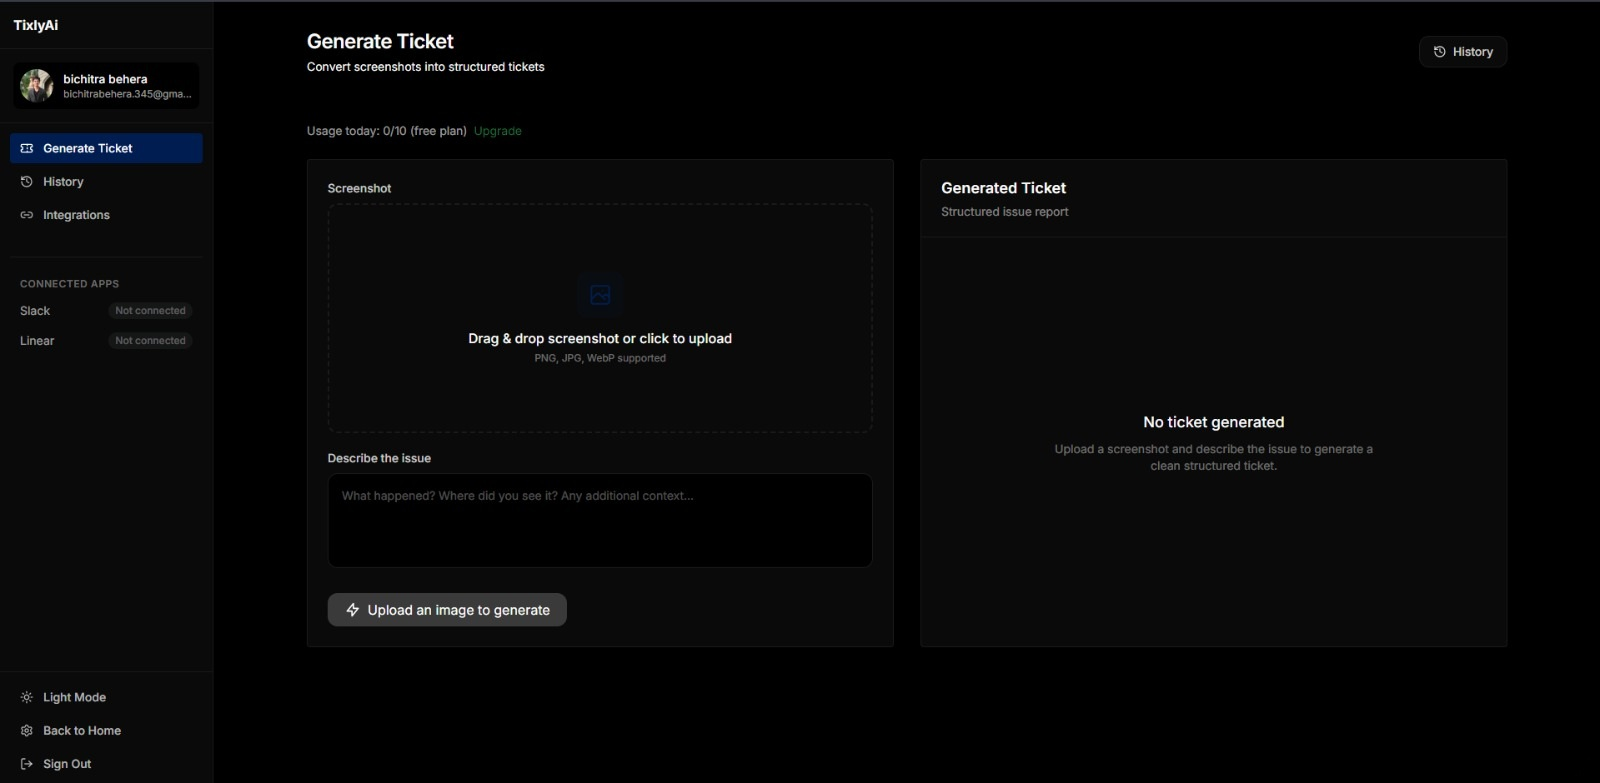
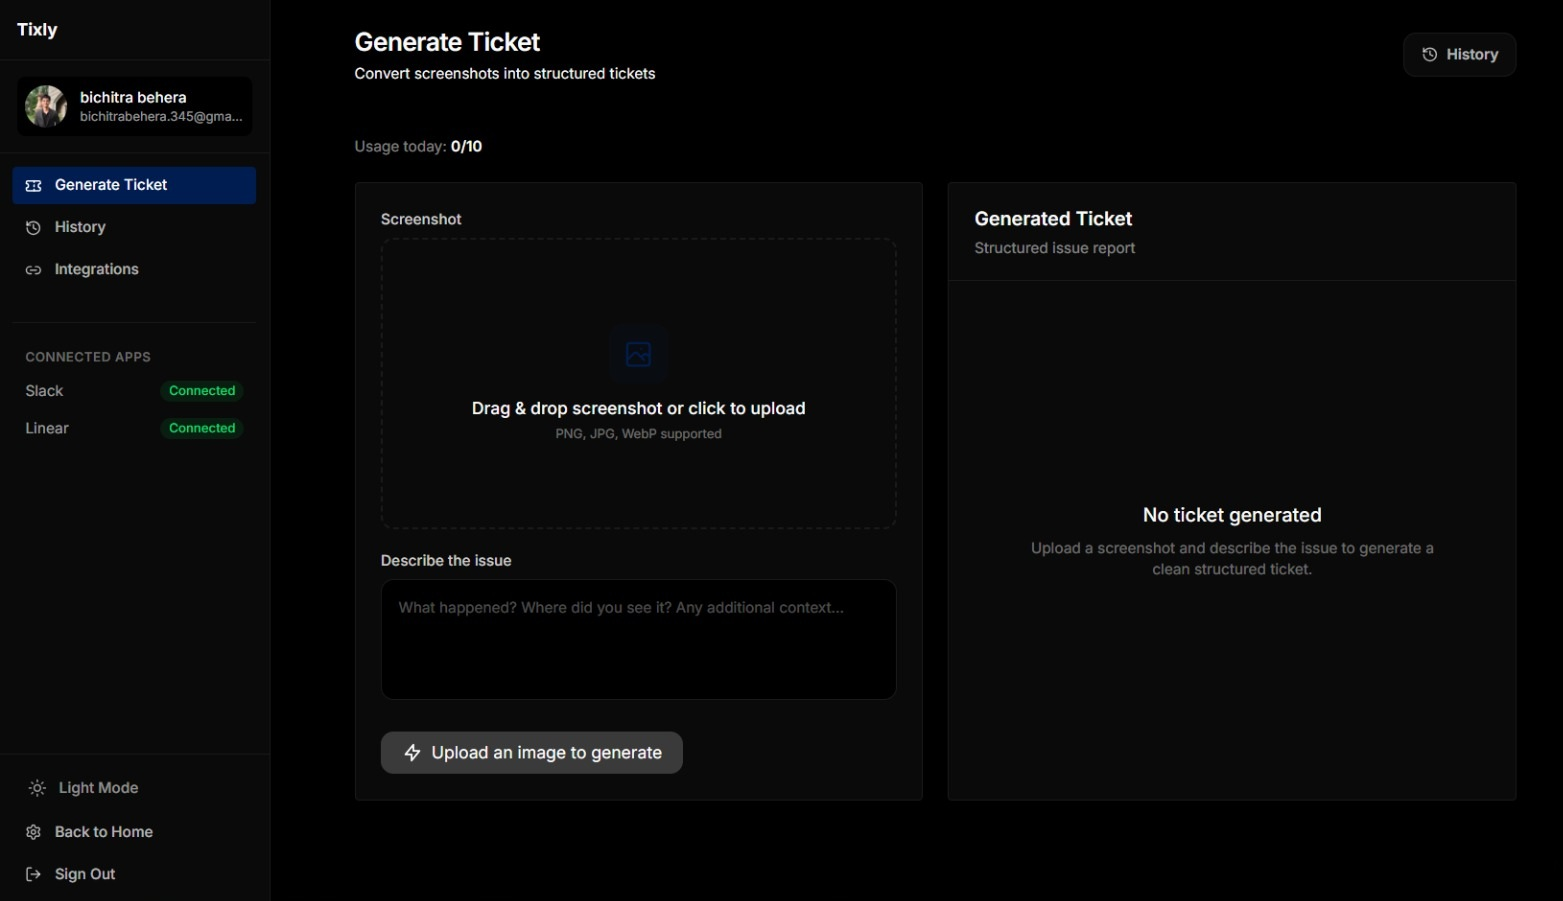
final touches before next linkedin and x post

diff --git a/components/Footer.tsx b/components/Footer.tsx
@@ -3,8 +3,7 @@ import { SOCIALS, FOOTER, SITE } from "@/lib/data";
 import type { ComponentType } from "react";
 
 export function Footer() {
-  // Map of platform names to developer-icons components
-  const iconMap: Record<string, ComponentType<{ className?: string }>> = {
+  const iconMap = {
     github: GitHubDark,
     linkedin: LinkedIn,
     x: XDark,
@@ -12,58 +11,90 @@ export function Footer() {
 
   return (
     <footer className="border-t border-slate-200">
-      <div className="mx-auto max-w-6xl px-6 py-12 lg:px-8">
-        <div className="flex flex-col items-center gap-8">
-          {/* Brand */}
-          <div className="text-center">
-            <div className="mb-2 font-bold text-xl tracking-tight text-slate-900">
+      <div className="mx-auto max-w-6xl px-4 sm:px-6 py-12 lg:py-16">
+        {/* TOP GRID */}
+        <div className="grid gap-10 sm:grid-cols-2 lg:grid-cols-4">
+          {/* BRAND */}
+          <div>
+            <h3 className="text-lg font-semibold text-slate-900">
               {SITE.name}
-            </div>
-            <p className="text-sm text-slate-600">{SITE.tagline}</p>
+            </h3>
+            <p className="mt-3 text-sm text-slate-600 max-w-xs">
+              {SITE.tagline}
+            </p>
           </div>
 
-          <nav className="flex flex-wrap items-center justify-center gap-x-8 gap-y-3 text-sm">
-            {FOOTER.links.map((link) => (
-              <a
-                href={link.href}
-                key={link.label}
-                className="text-slate-600 hover:text-slate-900 transition-colors font-medium"
-              >
-                {link.label}
-              </a>
-            ))}
-          </nav>
-
-          <div className="flex items-center gap-6">
-            {SOCIALS.map((social, index) => {
-              const IconComponent = iconMap[social.platform.toLowerCase()];
-              return (
+          {/* LINKS */}
+          <div>
+            <h4 className="text-sm font-semibold text-slate-900 mb-3">
+              Product
+            </h4>
+            <div className="flex flex-col gap-2 text-sm">
+              {FOOTER.links.map((link) => (
                 <a
-                  key={index}
-                  href={social.url}
-                  target="_blank"
-                  rel="noopener noreferrer"
-                  className="group transition-all"
-                  aria-label={social.platform}
+                  key={link.label}
+                  href={link.href}
+                  className="text-slate-600 hover:text-slate-900 transition-colors"
                 >
-                  <div className="flex h-10 w-10 items-center justify-center rounded-xl border border-slate-200 text-slate-600 transition-all group-hover:bg-white shadow-2xs">
-                    {IconComponent ? (
-                      <IconComponent className="h-5 w-5" />
-                    ) : null}
-                  </div>
+                  {link.label}
                 </a>
-              );
-            })}
+              ))}
+            </div>
           </div>
 
-          <p className="text-sm text-slate-500 text-center">
-            Built with <span className="text-red-500 inline-block">❤</span> by{" "}
-            <span className="font-semibold text-slate-700">
-              {FOOTER.builtBy}
-            </span>
+          {/* SOCIAL */}
+          <div>
+            <h4 className="text-sm font-semibold text-slate-900 mb-3">
+              Connect
+            </h4>
+
+            <div className="flex gap-3">
+              {SOCIALS.map((social, index) => {
+                const Icon = iconMap[social.platform.toLowerCase()];
+                return (
+                  <a
+                    key={index}
+                    href={social.url}
+                    target="_blank"
+                    rel="noopener noreferrer"
+                    className="group"
+                  >
+                    <div
+                      className="flex h-9 w-9 items-center justify-center rounded-lg border border-slate-200 bg-white text-slate-600 transition-all 
+                      hover:-translate-y-0.5 hover:shadow-md hover:text-slate-900"
+                    >
+                      {Icon && <Icon className="h-4 w-4" />}
+                    </div>
+                  </a>
+                );
+              })}
+            </div>
+          </div>
+
+          {/* EXTRA / TRUST */}
+          <div>
+            <h4 className="text-sm font-semibold text-slate-900 mb-3">
+              Built for
+            </h4>
+            <p className="text-sm text-slate-600">
+              Developers, startups, and teams who hate slow workflows.
+            </p>
+          </div>
+        </div>
+
+        {/* DIVIDER */}
+        <div className="my-10 h-px bg-slate-200" />
+
+        {/* BOTTOM */}
+        <div className="flex flex-col sm:flex-row items-center justify-between gap-4 text-sm">
+          <p className="text-slate-500 text-center sm:text-left">
+            © {new Date().getFullYear()} {SITE.name}. All rights reserved.
           </p>
 
-          <div className="text-xs text-slate-400">{FOOTER.copyright}</div>
+          <p className="text-slate-500 text-center">
+            Built with <span className="text-red-500">♥</span> by{" "}
+            <span className="font-medium text-slate-700">{FOOTER.builtBy}</span>
+          </p>
         </div>
       </div>
     </footer>

diff --git a/components/HowItWorks.tsx b/components/HowItWorks.tsx
@@ -35,23 +35,13 @@ export function HowItWorks() {
         </div>
 
         {/* Preview */}
-        <div className="mb-16 overflow-hidden rounded-2xl border border-slate-200 bg-neutral-950 shadow-sm">
-          <div className="flex items-center border-b border-neutral-800 px-4 py-3">
-            <div className="flex gap-1.5">
-              <span className="h-2.5 w-2.5 rounded-full bg-red-400" />
-              <span className="h-2.5 w-2.5 rounded-full bg-yellow-400" />
-              <span className="h-2.5 w-2.5 rounded-full bg-green-400" />
-            </div>
-
-            <div className="ml-4 flex-1 rounded-md bg-neutral-800 px-3 py-1.5 text-xs text-neutral-400">
-            /dashboard/generate
-            </div>
-          </div>
+        <div className="mb-16 overflow-hidden rounded-xl shadow-green-950 border border-slate-200 shadow-sm">
+          
 
           <img
             src="/Banner.jpeg"
             alt="Tixly dashboard preview"
-            className="w-full object-cover"
+            className="w-full object-cover rounded-xl"
           />
         </div>
 

diff --git a/components/Header.tsx b/components/Header.tsx
@@ -7,9 +7,9 @@ export function Header() {
   const { user, isLoaded } = useUser();
 
   return (
-    <header className="sticky p-6 z-50">
+    <header className="fixed mx-auto top-0 left-0 right-0 p-6 z-50">
       <div className=" mx-auto w-fit rounded-full border border-slate-900/10 backdrop-blur-xl shadow-lg shadow-slate-900/5">
-        <div className="flex items-center gap-1 px-2 py-2">
+        <div className="flex items-center gap-1 px-2 py-1">
           <Link
             href="/"
             className="flex items-center gap-2 rounded-full px-4 py-2 text-base font-bold tracking-tight text-slate-900 transition-colors hover:bg-green-100/80 hover:text-slate-700"

diff --git a/components/Comparison.tsx b/components/Comparison.tsx
@@ -6,7 +6,7 @@ export default function ComparisonPage() {
     <section className="py-16 lg:py-24 border-t border-slate-200">
       <div className="max-w-6xl mx-auto px-6">
         <div className="text-center mb-16">
-          <h1 className="text-4xl font-bold tracking-tight mb-4 sm:text-5xl lg:text-6xl text-slate-900">
+          <h1 className="text-4xl font-bold tracking-tight mb-4 sm:text-5xl lg:text-5xl text-slate-900">
             {COMPARISON.title}
           </h1>
           <p className="text-lg text-slate-600 max-w-2xl mx-auto">

diff --git a/components/dashboard/Sidebar.tsx b/components/dashboard/Sidebar.tsx
@@ -43,7 +43,7 @@ export function Sidebar() {
     <aside className="w-64 fixed z-50 min-h-screen bg-(--card) border-r border-(--border) flex flex-col">
       <div className="p-4 border-b border-(--border)">
         <Link href="/dashboard" className="flex items-center gap-2">
-          <span className="font-bold text-(--text)">TixlyAi</span>
+          <span className="font-bold text-(--text)">Tixly</span>
         </Link>
       </div>
 

diff --git a/components/Hero.tsx b/components/Hero.tsx
@@ -7,7 +7,7 @@ import { CgLinear } from "react-icons/cg";
 
 export function Hero() {
   return (
-    <section className="mx-auto max-w-6xl px-6 py-16 lg:py-24">
+    <section className="mx-auto max-w-6xl px-6 pb-12 pt-40 ">
       <div className="text-center">
         {/* Badge */}
         <div className="inline-flex items-center gap-2 rounded-xl bg-green-200 px-4 py-1.5 text-sm font-medium text-neutral-700 mb-8">

diff --git a/lib/data.ts b/lib/data.ts
@@ -164,7 +164,7 @@ export const CALL_TO_ACTION = {
 export const FOOTER = {
   links: [
     { label: "How it works", href: "#how" },
-    { label: "Generate ticket", href: "/generate" },
+    { label: "Generate ticket", href: "/dashboard/generate" },
     { label: "Privacy Policy", href: "/privacy" },
     { label: "Terms & Conditions", href: "/terms" },
   ],

diff --git a/app/page.tsx b/app/page.tsx
@@ -16,7 +16,7 @@ export default function Home() {
       <UseCases />
       <Features />
       <ComparisonPage />
-      <CallToAction />
+      {/* <CallToAction /> */}
       <Footer />
     </div>
   );
